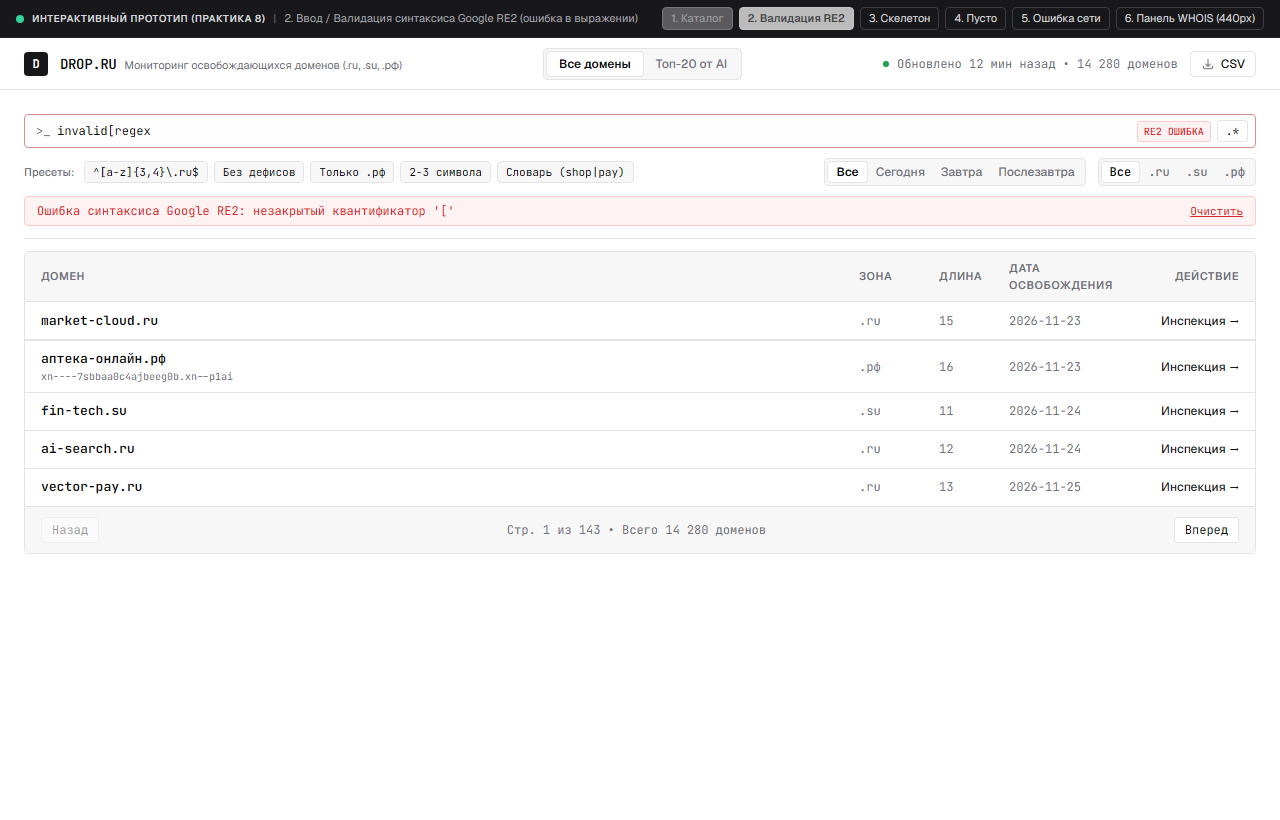
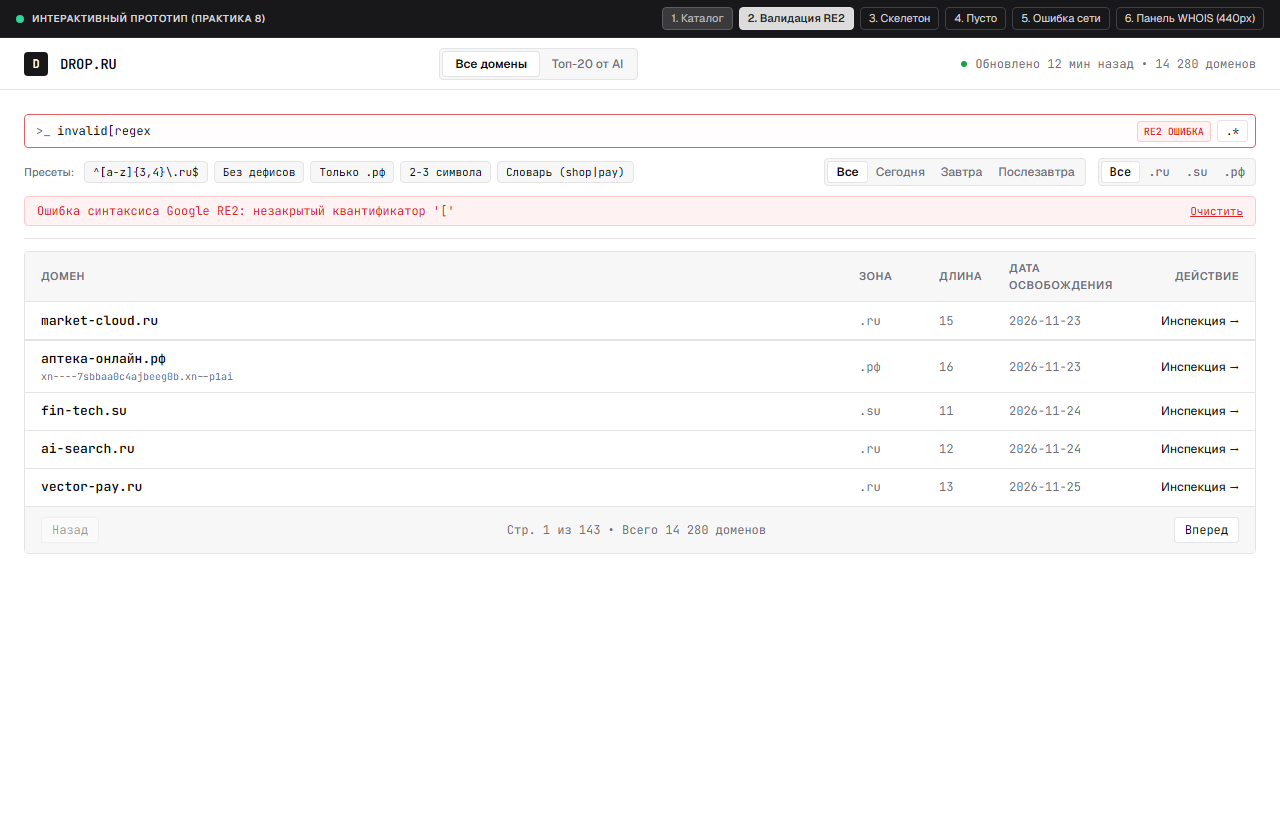
fix(prototype): hide error box by default and add escape key close

Changed region(s): [[0.2188, 0.0, 0.6875, 0.0915], [0.6875, 0.061, 1.0, 0.0915], [0.0938, 0.061, 0.3125, 0.0915]]

diff --git a/practices/practice_08/prototype/index.html b/practices/practice_08/prototype/index.html
@@ -88,6 +88,15 @@
         .domain-table-row:hover .copy-btn-inline {
             opacity: 1;
         }
+        /* Hidden elements must never show */
+        .hidden, [hidden], #search-error-box.hidden {
+            display: none !important;
+        }
+        #search-error-box:not(.hidden) {
+            display: flex !important;
+            align-items: center;
+            justify-content: space-between;
+        }
         /* Slide-over Drawer */
         #drawer-backdrop {
             display: none;
@@ -289,7 +298,7 @@
                 </div>
 
                 <!-- Сообщение об ошибке валидации RE2 (скрыто по умолчанию) -->
-                <div id="search-error-box" class="hidden px-3 py-1.5 rounded-[4px] bg-red-50 border border-red-200 text-error-red text-xs font-mono flex items-center justify-between">
+                <div id="search-error-box" class="hidden px-3 py-1.5 rounded-[4px] bg-red-50 border border-red-200 text-error-red text-xs font-mono items-center justify-between" style="display: none;">
                     <span id="search-error-text">Ошибка синтаксиса Google RE2: незакрытый квантификатор '['</span>
                     <button type="button" onclick="clearErrorDemo()" class="text-[11px] underline hover:no-underline text-error-red">Очистить</button>
                 </div>
@@ -685,6 +694,7 @@
             tableError.classList.add('hidden');
             tableRows.classList.remove('hidden');
             errorBox.classList.add('hidden');
+            errorBox.style.display = 'none';
             searchInput.classList.remove('border-error-red', 'bg-red-50/20');
             re2Badge.className = 'inline-flex items-center px-1.5 py-0.5 rounded-[3px] text-[10px] font-mono font-medium bg-emerald-50 text-success-green border border-emerald-200';
             re2Badge.textContent = 'RE2 OK';
@@ -699,6 +709,7 @@
                 re2Badge.className = 'inline-flex items-center px-1.5 py-0.5 rounded-[3px] text-[10px] font-mono font-medium bg-red-50 text-error-red border border-red-200';
                 re2Badge.textContent = 'RE2 ОШИБКА';
                 errorBox.classList.remove('hidden');
+                errorBox.style.display = 'flex';
                 document.getElementById('search-error-text').textContent = 'Ошибка синтаксиса Google RE2: незакрытый квантификатор \'[\'';
             } else if (state === 'loading') {
                 descEl.textContent = '3. Загрузка / Аккуратный скелетон без мерцания';
@@ -765,12 +776,14 @@
                 re2Badge.className = 'inline-flex items-center px-1.5 py-0.5 rounded-[3px] text-[10px] font-mono font-medium bg-red-50 text-error-red border border-red-200';
                 re2Badge.textContent = 'RE2 ОШИБКА';
                 errorBox.classList.remove('hidden');
+                errorBox.style.display = 'flex';
                 document.getElementById('search-error-text').textContent = 'Ошибка синтаксиса Google RE2: незакрытый квантификатор \'[\'';
             } else {
                 input.classList.remove('border-error-red', 'bg-red-50/20');
                 re2Badge.className = 'inline-flex items-center px-1.5 py-0.5 rounded-[3px] text-[10px] font-mono font-medium bg-emerald-50 text-success-green border border-emerald-200';
                 re2Badge.textContent = 'RE2 OK';
                 errorBox.classList.add('hidden');
+                errorBox.style.display = 'none';
             }
         }
 
@@ -778,6 +791,10 @@
             document.getElementById('search-input').value = '';
             onSearchInput('');
         }
+
+        window.addEventListener('keydown', e => {
+            if (e.key === 'Escape') closeDrawerDemo();
+        });
 
         function setDateFilter(f, btn) {
             document.querySelectorAll('.date-btn').forEach(b => {
